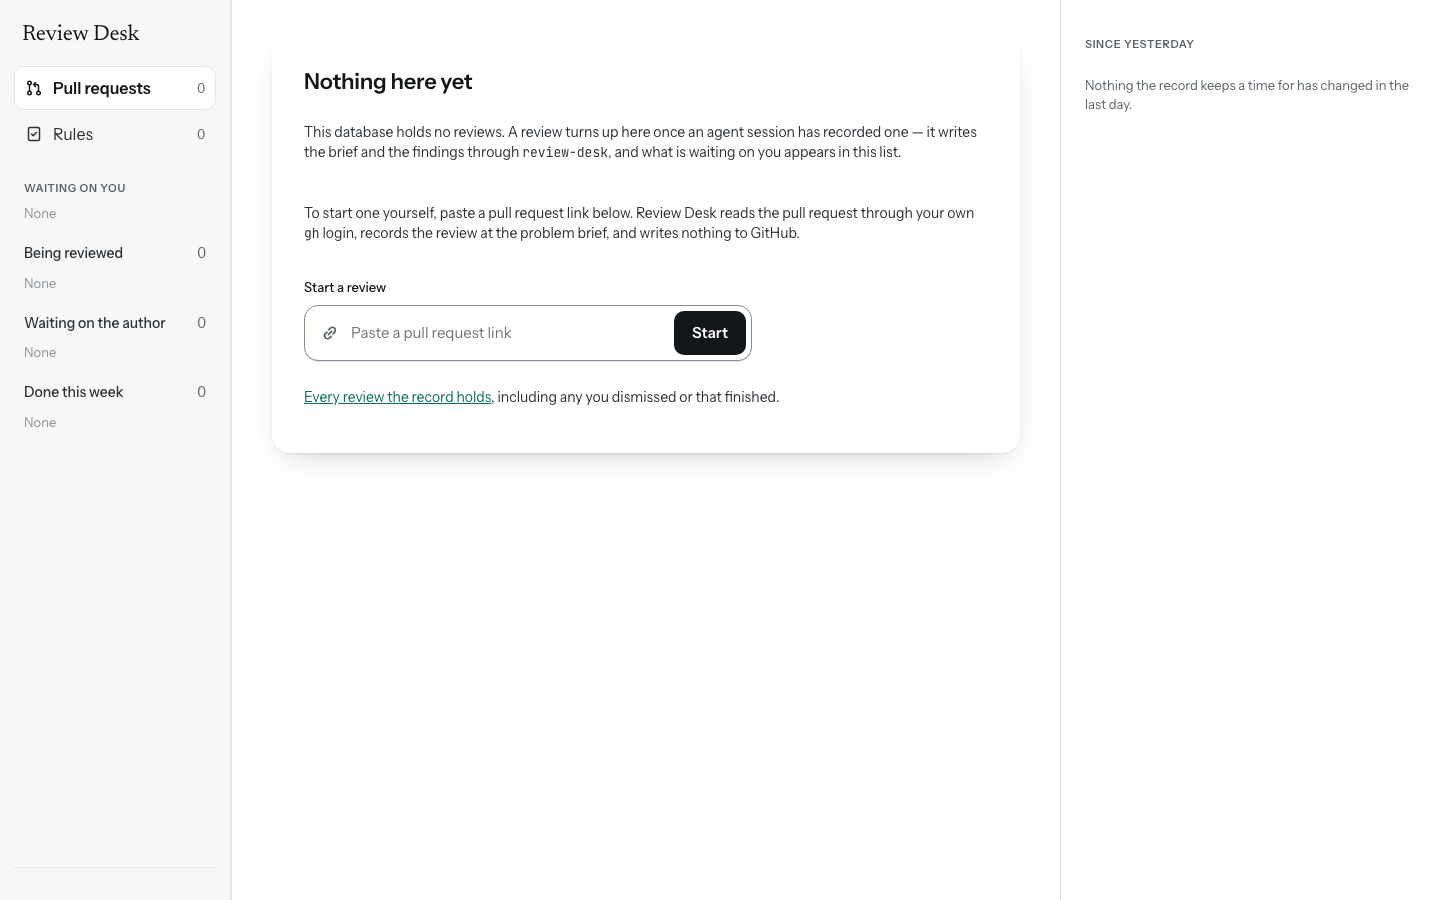
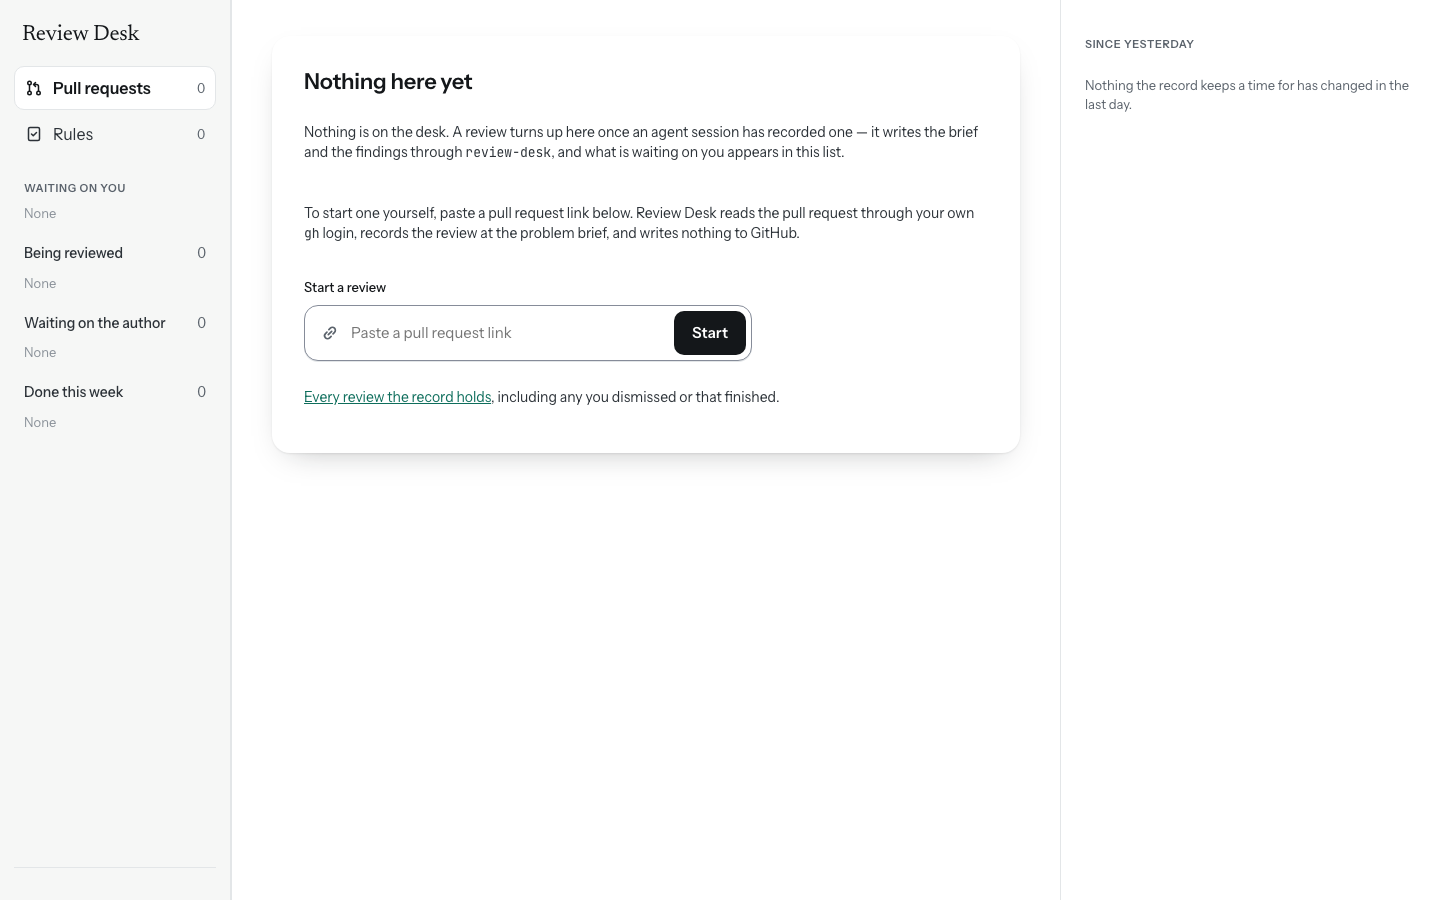
Self-review round 1: the tabs take the arrow keys, and a finished-only desk draws S17 [DEV-1325]
- F1 Left/Right/Home/End move between the list's tabs (ARIA tabs pattern);
  a keyboard reached only the open tab.
- F2 A desk whose only reviews finished this week draws S17, not the empty
  card, and that card says "Nothing is on the desk" rather than a claim about
  the database the inbox cannot make.
- F3 The list's unit tests pin the clock so Done holds a row.
- F4 A request with no round reads one state word, the sidebar's.
- F5 design.md's width table describes the list beside its preview.
- F6 A pointer selects a row once it rests there (120ms), not every row it
  crosses, each of which was a review read.
- F7 A pointer selects only after it moves, so J's scroll cannot hand the
  selection back to the row under a resting pointer.

Changed region(s): [[0.2188, 0.1244, 0.6875, 0.1867]]

diff --git a/web/app/pages/index.vue b/web/app/pages/index.vue
@@ -1571,12 +1571,50 @@ watch(currentRows, (list) => {
 const selectedRow = computed(() =>
   currentRows.value.find(row => row.key === selected.value) ?? null)
 
-/** A pointer resting on a row, or focus arriving in one, selects it. */
-function selectFrom(event: Event) {
-  const holder = (event.target as Element | null)?.closest?.('[data-row-key]')
-  const key = holder?.getAttribute('data-row-key')
-  if (key && currentRows.value.some(row => row.key === key)) selected.value = key
+/** The row a holder element is, when it is one the open tab draws. */
+function rowKeyOf(target: EventTarget | null): string | null {
+  const holder = (target as Element | null)?.closest?.('[data-row-key]')
+  const key = holder?.getAttribute('data-row-key') ?? null
+  return key && currentRows.value.some(row => row.key === key) ? key : null
 }
+
+/** Focus arriving in a row selects it at once: a keyboard means it. */
+function selectFromFocus(event: FocusEvent) {
+  const key = rowKeyOf(event.target)
+  if (key) selected.value = key
+}
+
+/*
+ * **A pointer selects a row once it rests there, and only if it moved to get there.**
+ *
+ * Two findings of the self-review, round 1. A pointer swept down the list selected every row
+ * it crossed, and each selection is a read of that review for the preview — ten rows, ten
+ * reads, ten flashes of "Reading the review…" (F6). So it waits 120ms, which a sweep does not
+ * and a reader does. And `J` scrolls the selected row into view, which slides a different
+ * row under a pointer that has not moved; the browser reports that as the pointer entering
+ * the row, and the selection snapped back to it (F7). So a pointer selects only from a
+ * position other than where it was when a key last moved the selection.
+ */
+const RESTS_MS = 120
+let resting: ReturnType<typeof setTimeout> | null = null
+let pointer = { x: -1, y: -1 }
+let pointerAtKey = { x: -2, y: -2 }
+
+function selectFromPointer(event: MouseEvent) {
+  pointer = { x: event.clientX, y: event.clientY }
+  if (pointer.x === pointerAtKey.x && pointer.y === pointerAtKey.y) return
+  const key = rowKeyOf(event.target)
+  if (resting) clearTimeout(resting)
+  if (!key) return
+  resting = setTimeout(() => {
+    resting = null
+    selected.value = key
+  }, RESTS_MS)
+}
+
+onBeforeUnmount(() => {
+  if (resting) clearTimeout(resting)
+})
 
 /** Open a row: its review's Overview, or the pull request on GitHub when there is no review. */
 function open(row: ListRow | null) {
@@ -1610,6 +1648,8 @@ function onKey(event: KeyboardEvent) {
   const key = event.key.toLowerCase()
   if (key === 'j' || key === 'k') {
     event.preventDefault()
+    pointerAtKey = { ...pointer }
+    if (resting) clearTimeout(resting)
     selected.value = moveSelection(currentRows.value, selected.value, key === 'j' ? 1 : -1)
     void nextTick(focusSelected)
     return
@@ -1727,7 +1767,38 @@ function requestedState(item: InboxAwaitingSessionItem): ReviewState {
  * record holding reviews. Found by the end-to-end run on an empty database.
  */
 function emptyHere(data: Inbox): boolean {
-  return view.value !== 'every' && isEmpty(data)
+  /*
+   * **And never over a desk whose only reviews finished this week** (self-review round 1,
+   * F2): the inbox leaves them out, so `isEmpty` called that desk empty while the sidebar
+   * listed them under *Done this week*. Those rows are the *Done* tab's and S17's to draw.
+   */
+  return view.value !== 'every' && isEmpty(data) && doneRows.value.length === 0
+}
+
+/**
+ * **The tabs' own keys, as the ARIA tabs pattern has them**: Left and Right move to the
+ * previous and next tab, Home and End to the first and last, and the tab is opened as focus
+ * reaches it. Self-review round 1, F1: the tabs used a roving tabindex and nothing answered
+ * the arrows, so a keyboard reached only the open tab — and five of six, *Every review* and
+ * its dismissed reviews among them, were out of its reach.
+ */
+function onTabKey(event: KeyboardEvent) {
+  const at = LIST_VIEWS.findIndex(one => one.view === view.value)
+  const last = LIST_VIEWS.length - 1
+  const to = event.key === 'ArrowRight'
+    ? (at + 1) % LIST_VIEWS.length
+    : event.key === 'ArrowLeft'
+      ? (at + last) % LIST_VIEWS.length
+      : event.key === 'Home'
+        ? 0
+        : event.key === 'End'
+          ? last
+          : null
+  if (to == null) return
+  event.preventDefault()
+  const next = LIST_VIEWS[to]!.view
+  view.value = next
+  void nextTick(() => document.getElementById(`tab-${next}`)?.focus())
 }
 </script>
 
@@ -1735,8 +1806,9 @@ function emptyHere(data: Inbox): boolean {
   <div class="pull-requests">
     <div
       class="list"
-      @mouseover="selectFrom"
-      @focusin="selectFrom"
+      @mouseover="selectFromPointer"
+      @mousemove="selectFromPointer"
+      @focusin="selectFromFocus"
     >
       <DeskState
         :resource="inbox"
@@ -1789,6 +1861,7 @@ function emptyHere(data: Inbox): boolean {
               :aria-controls="`panel-${tab.view}`"
               :tabindex="view === tab.view ? 0 : -1"
               @click="view = tab.view"
+              @keydown="onTabKey"
             >
               {{ tab.label }}<span
                 v-if="tab.view !== 'every'"
@@ -1983,7 +2056,7 @@ function emptyHere(data: Inbox): boolean {
                 Which of the two kinds of row this is, as the queue said it. The group's note
                 says the rest: Review Desk does not start a session.
               -->
-                <span class="rd-meta what-detail">{{ item.review_id == null ? 'Waiting for a session · ' : '' }}{{
+                <span class="rd-meta what-detail">{{
                   item.review_id == null
                     ? 'no round has been opened'
                     : 'no session is working on it'
@@ -2192,7 +2265,7 @@ function emptyHere(data: Inbox): boolean {
               Nothing here yet
             </h1>
             <p class="rd-note rd-measure">
-              This database holds no reviews. A review turns up here once an agent session has
+              Nothing is on the desk. A review turns up here once an agent session has
               recorded one — it writes the brief and the findings through
               <code class="rd-mono">review-desk</code>, and what is waiting on you appears in
               this list.

diff --git a/web/test/screens.nuxt.spec.ts b/web/test/screens.nuxt.spec.ts
@@ -1351,7 +1351,12 @@ describe('the queue', () => {
     const text = page.text()
 
     expect(text).toContain('Nothing here yet')
-    expect(text).toContain('This database holds no reviews')
+    /*
+     * **"Nothing is on the desk"**, which the inbox can say, and it was "This database holds
+     * no reviews", which it cannot: a dismissed review is in no inbox array (self-review of
+     * DEV-1325, round 1, F2). The card links *Every review* for the ones that left.
+     */
+    expect(text).toContain('Nothing is on the desk')
     /* And it says the one thing that fills it, with the field to do it from. */
     expect(text).toContain('review-desk')
     expect(page.find('input#start-empty').exists()).toBe(true)
@@ -2882,7 +2887,8 @@ describe('a pull request nobody has picked up', () => {
     expect(row.find('.meta-text').text())
       .toBe('acme/billing-api')
     expect(row.text()).toContain('no round has been opened')
-    expect(row.text()).toContain('Waiting for a session')
+    /* *Not started*, the sidebar's word for a request with no round (DEV-1325, review F4). */
+    expect(row.text()).toContain('Not started')
 
     /*
      * **The pull request is the way out, and the only one.** There is no review page to
@@ -3408,8 +3414,20 @@ describe('a pull request nobody has picked up', () => {
  * unchanged; these are the rules the one list adds.
  */
 describe('the Pull requests list', () => {
+  /*
+   * **The clock, pinned two days after `globex/portal#9568` merged** (11 October 2026), so
+   * *Done this week* holds a row. Against the real clock it is empty, and the *Done* half of
+   * the membership test compared two empty lists — the self-review's round-1 F3. Only `Date`
+   * is faked: `settle` runs on real timers.
+   */
   beforeEach(async () => {
+    vi.useFakeTimers({ toFake: ['Date'] })
+    vi.setSystemTime(new Date('2026-10-13T12:00:00Z'))
     await resetDesk()
+  })
+
+  afterEach(() => {
+    vi.useRealTimers()
   })
 
   /** The pull request numbers one tab's panel draws, in order. */
@@ -3441,6 +3459,36 @@ describe('the Pull requests list', () => {
         .toEqual(sidebarNumbers(layout, group).sort())
     }
     expect(panelNumbers(page, 'waiting').length).toBeGreaterThan(0)
+    expect(panelNumbers(page, 'done'), 'a Done row, so this half compares something').toContain('9568')
+  })
+
+  it('draws S17, not the empty-database card, on a desk whose only review finished this week', async () => {
+    const source = loadSource()
+    await resetDesk({
+      reviews: source.reviews.filter(detail => detail.review.pr === 9568),
+      drafts: [],
+      rules: [],
+      own_prs: [],
+      review_requests: [],
+    })
+    const page = await shown(Inbox)
+    expect(page.text()).not.toContain('Nothing here yet')
+    const lines = page.findAll('[data-testid="nothing-needs-you"] .nothing-group').map(one => one.text())
+    expect(lines[3]).toContain('Done this week · 1')
+    expect(lines[3]).toContain('1 merged')
+    expect(tabCount(page, 'Done')).toBe(1)
+  })
+
+  it('opens the next tab with the arrow keys, and the first and last with Home and End', async () => {
+    const page = await shown(Inbox)
+    const push = vi.spyOn(page.vm.$router, 'push')
+    await page.find('#tab-waiting').trigger('keydown', { key: 'ArrowRight' })
+    expect(push).toHaveBeenLastCalledWith({ query: { view: 'reviewing' } })
+    await page.find('#tab-waiting').trigger('keydown', { key: 'ArrowLeft' })
+    expect(push).toHaveBeenLastCalledWith({ query: { view: 'every' } })
+    await page.find('#tab-waiting').trigger('keydown', { key: 'End' })
+    expect(push).toHaveBeenLastCalledWith({ query: { view: 'every' } })
+    push.mockRestore()
   })
 
   it('draws each row’s state word from stateWord, the sidebar’s word for it', async () => {
@@ -3482,7 +3530,8 @@ describe('the Pull requests list', () => {
     const page = await shown(Inbox)
     const rows = page.findAll('#panel-waiting .queue-line')
     for (const one of rows) {
-      await one.trigger('mouseover')
+      /* Focus selects at once; a pointer waits for a rest (review F6). */
+      await one.find('.row').trigger('focusin')
       await settle(page)
       const id = Number(one.find('.row').attributes('href')!.split('/').pop())
       const brief = loadSource().reviews.find(detail => detail.review.id === id)?.brief
@@ -3553,6 +3602,7 @@ describe('the Pull requests list', () => {
     await resetDesk({ reviews: dismissed, drafts: [], rules: [], own_prs: [], review_requests: [] })
     const card = await shown(Inbox)
     expect(card.text()).toContain('Nothing here yet')
+    expect(card.text(), 'no claim the inbox cannot make').not.toContain('This database holds no reviews')
     expect(card.find('a[href="/?view=every"]').exists()).toBe(true)
 
     const page = await shown(Inbox, { route: '/?view=every' })

diff --git a/web/e2e/queue-rounds.spec.ts b/web/e2e/queue-rounds.spec.ts
@@ -702,7 +702,35 @@ test('J and K walk the list, and Enter opens the selected row’s Overview', asy
   await page.locator('body').press('k')
   await expect(rows.first()).toHaveClass(/queue-line--selected/)
 
+  /*
+   * **A pointer resting on a row does not take the selection back from J** (self-review
+   * round 1, F7): J scrolls, which slides a row under a pointer that has not moved, and the
+   * browser reports that as the pointer arriving. It selects only once it moves and rests.
+   */
+  await rows.first().hover()
+  await expect(rows.first()).toHaveClass(/queue-line--selected/)
+  await page.locator('body').press('j')
+  await expect(rows.nth(1)).toHaveClass(/queue-line--selected/)
+  await page.waitForTimeout(400)
+  await expect(rows.nth(1), 'still the row J chose').toHaveClass(/queue-line--selected/)
+  await page.locator('body').press('k')
+  await expect(rows.first()).toHaveClass(/queue-line--selected/)
+
   const href = await rows.first().locator('.row').getAttribute('href')
   await page.locator('body').press('Enter')
   await expect(page).toHaveURL(`${serving.url}${href!.slice(1)}`)
+})
+
+test('the arrow keys move between the list’s tabs', async ({ page }) => {
+  /* Self-review round 1, F1: a keyboard reached only the open tab. */
+  await queue(page)
+  await page.getByRole('tab', { name: /^Waiting on you/ }).focus()
+  await page.keyboard.press('ArrowRight')
+  await expect(page).toHaveURL(/\?view=reviewing$/)
+  await expect(page.getByRole('tab', { name: /^Being reviewed/ })).toBeFocused()
+  await page.keyboard.press('End')
+  await expect(page).toHaveURL(/\?view=every$/)
+  await page.keyboard.press('Home')
+  await expect(page.getByRole('tab', { name: /^Waiting on you/ })).toBeFocused()
+  await expect(page.locator('#panel-waiting')).toBeVisible()
 })

diff --git a/web/e2e/review-desk.spec.ts b/web/e2e/review-desk.spec.ts
@@ -3350,7 +3350,7 @@ test.describe('a database with nothing in it', () => {
   test('all five pages read as new rather than as broken', async ({ page }) => {
     await page.goto(empty)
     await expect(page.getByRole('heading', { name: 'Nothing here yet' })).toBeVisible()
-    await expect(page.getByText('This database holds no reviews')).toBeVisible()
+    await expect(page.getByText('Nothing is on the desk')).toBeVisible()
     /* The one thing that fills it, with the field to do it from. */
     await expect(page.locator('input#start-empty')).toBeVisible()
 

diff --git a/docs/design.md b/docs/design.md
@@ -154,7 +154,8 @@ documents, and the shell itself is capped at `--rd-shell-wide`.
 
 | Screen | Kind | Width |
 | -- | -- | -- |
-| Pull requests, Rules, one review, the case, What happened | Document | The main column, capped at `--rd-shell-max`, 1,240px |
+| Rules, one review, the case, What happened | Document | The main column, capped at `--rd-shell-max`, 1,240px |
+| Pull requests | List beside its preview | All of the main column (`split: true`): the rows take what the 380px preview leaves, the shell is capped at `--rd-shell-wide` |
 | Code review, Draft | Workbench | All of the main column; the shell around it is capped at `--rd-shell-wide`, 1,600px |
 
 **On a review's page the split is not observable under the shell**: beside the 232px sidebar and
